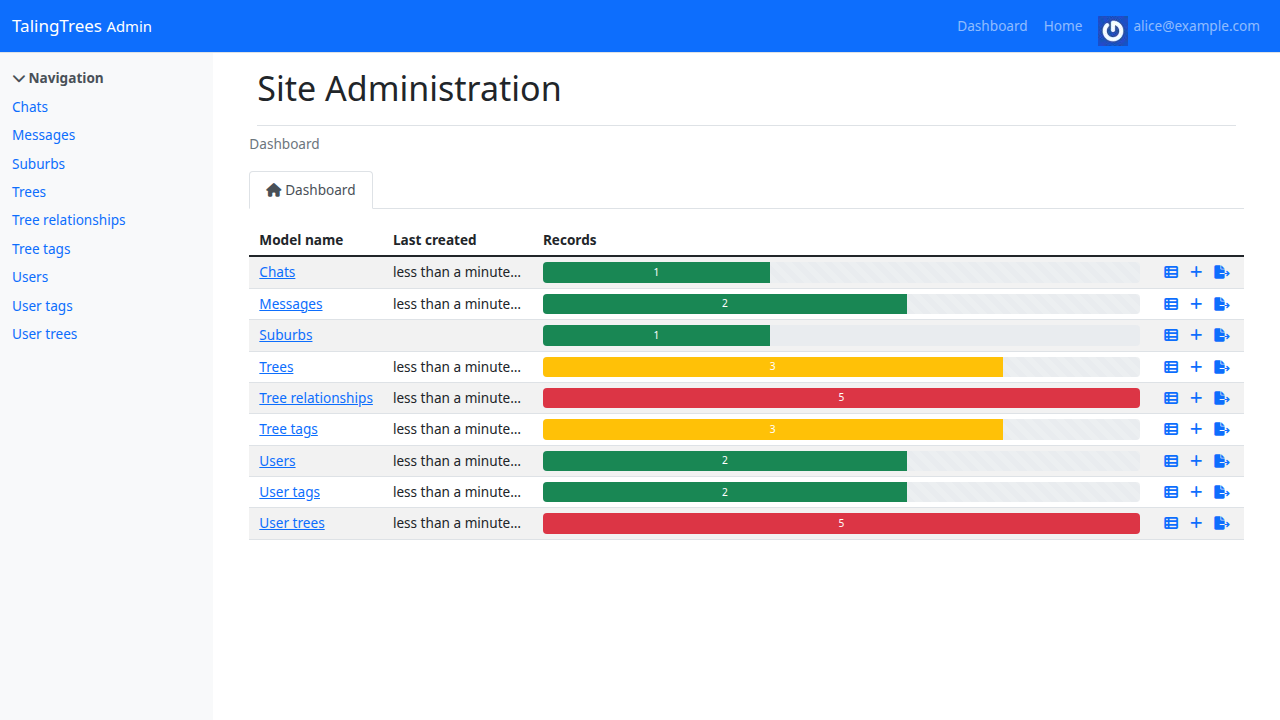
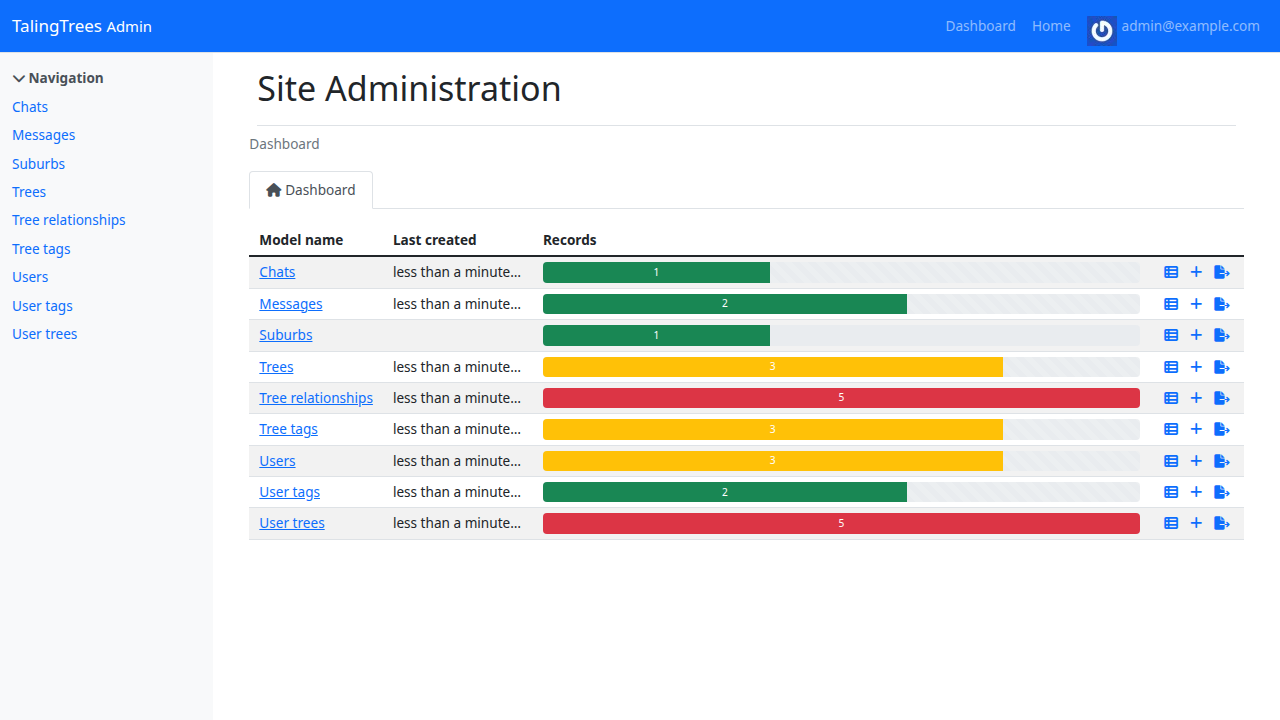
[FEATURE] Seed Blazer and capture dashboard screenshots

Changed region(s): [[0.4062, 0.6111, 0.7812, 0.6722], [0.75, 0.0, 0.9062, 0.0611]]

diff --git a/scripts/capture_homepage_screenshot.js b/scripts/capture_homepage_screenshot.js
@@ -9,6 +9,9 @@ const path = require('path');
   const waitSelector = process.env.SCREENSHOT_WAIT_SELECTOR;
   const delayMs = parseInt(process.env.SCREENSHOT_DELAY_MS || '2000', 10);
   const postScript = process.env.SCREENSHOT_POST_JS;
+  const selectUserId = process.env.SCREENSHOT_SELECT_USER_ID;
+  const targetUrl = process.env.SCREENSHOT_TARGET_URL;
+  const targetWaitSelector = process.env.SCREENSHOT_TARGET_WAIT_SELECTOR;
 
   const outputDir = path.dirname(output);
   if (!fs.existsSync(outputDir)) {
@@ -27,6 +30,28 @@ const path = require('path');
     await page.goto(url, { waitUntil: 'networkidle0', timeout: 60000 });
     if (waitSelector) {
       await page.waitForSelector(waitSelector, { timeout: 60000 }).catch(() => {});
+    }
+    if (selectUserId) {
+      await page.evaluate(async (userId) => {
+        const tokenEl = document.querySelector('meta[name="csrf-token"]');
+        if (!tokenEl) return;
+        const body = new URLSearchParams({ user_id: userId }).toString();
+        await fetch('/select_user', {
+          method: 'POST',
+          headers: {
+            'Content-Type': 'application/x-www-form-urlencoded; charset=UTF-8',
+            'X-CSRF-Token': tokenEl.content
+          },
+          credentials: 'same-origin',
+          body
+        });
+      }, selectUserId);
+    }
+    if (targetUrl) {
+      await page.goto(targetUrl, { waitUntil: 'networkidle0', timeout: 60000 });
+      if (targetWaitSelector) {
+        await page.waitForSelector(targetWaitSelector, { timeout: 60000 }).catch(() => {});
+      }
     }
     if (postScript) {
       await page.evaluate((code) => {

diff --git a/test/run_tests.rb b/test/run_tests.rb
@@ -6,7 +6,7 @@ require 'fileutils'
 require 'timeout'
 require 'socket'
 
-def capture_app_screenshot(root, filename:, seed_script: nil, path: '/', wait_selector: nil, delay_ms: 2000, post_script: nil)
+def capture_app_screenshot(root, filename:, seed_script: nil, path: '/', wait_selector: nil, delay_ms: 2000, post_script: nil, select_user_id: nil, target_path: nil, target_wait_selector: nil)
   screenshots_dir = File.join(root, 'screenshots')
   FileUtils.mkdir_p(screenshots_dir)
 
@@ -79,6 +79,13 @@ def capture_app_screenshot(root, filename:, seed_script: nil, path: '/', wait_se
     )
     screenshot_env['SCREENSHOT_WAIT_SELECTOR'] = wait_selector if wait_selector
     screenshot_env['SCREENSHOT_POST_JS'] = post_script if post_script
+    if select_user_id
+      screenshot_env['SCREENSHOT_SELECT_USER_ID'] = select_user_id
+      if target_path
+        screenshot_env['SCREENSHOT_TARGET_URL'] = "http://127.0.0.1:#{port}#{target_path}"
+        screenshot_env['SCREENSHOT_TARGET_WAIT_SELECTOR'] = target_wait_selector if target_wait_selector
+      end
+    end
     unless system(screenshot_env, 'yarn', 'screenshot:homepage', chdir: root)
       warn 'Screenshot capture command failed.'
     end
@@ -147,6 +154,11 @@ Minitest.after_run do
 
   populated_seed = <<~RUBY
     ApplicationRecord.transaction do
+      admin = User.create!(
+        name: 'Admin',
+        email: 'admin@example.com',
+        blurb: 'Analytics admin'
+      )
       user = User.create!(
         name: 'Explorer Alice',
         email: 'alice@example.com',
@@ -222,6 +234,68 @@ Minitest.after_run do
       chat = Chat.create!(user: user, tree: starwood)
       Message.create!(chat: chat, role: 'user', content: 'Hello Sentinel, how are the neighbors today?')
       Message.create!(chat: chat, role: 'assistant', content: 'Moonlit Whisper is humming with golden light, and Harborlight Cedar sends breezy greetings.')
+
+      Ahoy::Event.delete_all
+      Ahoy::Visit.delete_all
+      now = Time.current
+      5.times do |i|
+        visit = Ahoy::Visit.create!(
+          visit_token: SecureRandom.uuid,
+          visitor_token: SecureRandom.uuid,
+          started_at: now - i.days,
+          user: admin
+        )
+        Ahoy::Event.create!(
+          visit: visit,
+          name: 'Page view',
+          properties: { path: '/' },
+          time: visit.started_at + 5.minutes,
+          user: admin
+        )
+      end
+
+      if defined?(Blazer::Query)
+        visits_query = Blazer::Query.find_or_initialize_by(name: 'Ahoy visits per day')
+        visits_query.creator = admin
+        visits_query.data_source = 'main'
+        visits_query.description = 'Count of Ahoy visits grouped by day (last 30 days).'
+        visits_query.statement = <<~SQL
+          SELECT date(started_at) AS day,
+                 COUNT(*) AS visits
+          FROM ahoy_visits
+          WHERE started_at IS NOT NULL
+          GROUP BY day
+          ORDER BY day DESC
+          LIMIT 30
+        SQL
+        visits_query.save!
+
+        events_query = Blazer::Query.find_or_initialize_by(name: 'Ahoy events by name')
+        events_query.creator = admin
+        events_query.data_source = 'main'
+        events_query.description = 'Event volume grouped by event name (top 20).'
+        events_query.statement = <<~SQL
+          SELECT name,
+                 COUNT(*) AS events
+          FROM ahoy_events
+          GROUP BY name
+          ORDER BY events DESC
+          LIMIT 20
+        SQL
+        events_query.save!
+
+        dashboard = Blazer::Dashboard.find_or_initialize_by(name: 'Starter analytics')
+        dashboard.creator = admin
+        dashboard.save!
+
+        Blazer::DashboardQuery.find_or_create_by!(dashboard: dashboard, query: visits_query) do |dq|
+          dq.position = 0
+        end
+
+        Blazer::DashboardQuery.find_or_create_by!(dashboard: dashboard, query: events_query) do |dq|
+          dq.position = 1
+        end
+      end
     end
   RUBY
 
@@ -245,7 +319,8 @@ Minitest.after_run do
     seed_script: populated_seed,
     path: '/admin',
     wait_selector: 'body.rails_admin',
-    delay_ms: 3000
+    delay_ms: 3000,
+    select_user_id: '1'
   )
   maybe_generate_screenshot_diff(root, 'screenshots/admin-dashboard.png')
 
@@ -255,7 +330,58 @@ Minitest.after_run do
     seed_script: populated_seed,
     path: '/admin/tree',
     wait_selector: 'body.rails_admin',
-    delay_ms: 3000
+    delay_ms: 3000,
+    select_user_id: '1'
   )
   maybe_generate_screenshot_diff(root, 'screenshots/admin-trees.png')
+
+  capture_app_screenshot(
+    root,
+    filename: 'analytics-visits.png',
+    seed_script: populated_seed,
+    path: '/',
+    wait_selector: 'body',
+    select_user_id: '1',
+    target_path: '/blazer/queries/1-ahoy-visits-per-day',
+    target_wait_selector: '#bind',
+    delay_ms: 4000,
+    post_script: <<~JS
+      (async () => {
+        const form = document.querySelector('#bind');
+        if (form) {
+          const button = form.querySelector('input[type="submit"]');
+          if (button) {
+            button.click();
+            await new Promise(resolve => setTimeout(resolve, 2500));
+          }
+        }
+      })();
+    JS
+  )
+  maybe_generate_screenshot_diff(root, 'screenshots/analytics-visits.png')
+
+  capture_app_screenshot(
+    root,
+    filename: 'analytics-events.png',
+    seed_script: populated_seed,
+    path: '/',
+    wait_selector: 'body',
+    select_user_id: '1',
+    target_path: '/blazer/queries/2-ahoy-events-by-name',
+    target_wait_selector: '#bind',
+    delay_ms: 4000,
+    post_script: <<~JS
+      (async () => {
+        const form = document.querySelector('#bind');
+        if (form) {
+          const button = form.querySelector('input[type="submit"]');
+          if (button) {
+            button.click();
+            await new Promise(resolve => setTimeout(resolve, 2500));
+          }
+        }
+      })();
+    JS
+  )
+  maybe_generate_screenshot_diff(root, 'screenshots/analytics-events.png')
 end

diff --git a/db/seeds.rb b/db/seeds.rb
@@ -6,7 +6,58 @@ Chat.destroy_all
 Tree.destroy_all
 User.destroy_all
 
+begin
+  require 'blazer'
+rescue LoadError
+  # ignore if Blazer is not available in this environment
+end
+
 User.create!(name: 'Admin', email: 'admin@example.com', blurb: 'Initial admin user')
 User.create!(name: 'Alice', email: 'alice@example.com', blurb: 'Regular user')
 User.create!(name: 'Bob', email: 'bob@example.com', blurb: 'Regular user')
 User.create!(name: 'Charlie', email: 'charlie@example.com', blurb: 'Regular user')
+
+if defined?(Blazer::Query)
+  admin = User.find_by(name: 'Admin')
+
+  visits_query = Blazer::Query.find_or_initialize_by(name: 'Ahoy visits per day')
+  visits_query.creator = admin
+  visits_query.data_source = 'main'
+  visits_query.description = 'Count of Ahoy visits grouped by day (last 30 days).'
+  visits_query.statement = <<~SQL
+    SELECT date(started_at) AS day,
+           COUNT(*) AS visits
+    FROM ahoy_visits
+    WHERE started_at IS NOT NULL
+    GROUP BY day
+    ORDER BY day DESC
+    LIMIT 30
+  SQL
+  visits_query.save!
+
+  events_query = Blazer::Query.find_or_initialize_by(name: 'Ahoy events by name')
+  events_query.creator = admin
+  events_query.data_source = 'main'
+  events_query.description = 'Event volume grouped by event name (top 20).'
+  events_query.statement = <<~SQL
+    SELECT name,
+           COUNT(*) AS events
+    FROM ahoy_events
+    GROUP BY name
+    ORDER BY events DESC
+    LIMIT 20
+  SQL
+  events_query.save!
+
+  dashboard = Blazer::Dashboard.find_or_initialize_by(name: 'Starter analytics')
+  dashboard.creator = admin
+  dashboard.save!
+
+  Blazer::DashboardQuery.find_or_create_by!(dashboard: dashboard, query: visits_query) do |dq|
+    dq.position = 0
+  end
+
+  Blazer::DashboardQuery.find_or_create_by!(dashboard: dashboard, query: events_query) do |dq|
+    dq.position = 1
+  end
+end

diff --git a/TODO.md b/TODO.md
@@ -1,14 +1,13 @@
 # Project TODOs
 
 ## Incomplete
-[x] add Ahoy for analytics tracking
-[x] add Blazer dashboards to graph Ahoy data
+[ ] investigate yarn warnings about bare-* engine requirements when installing puppeteer
+[ ] add Blazer dashboards to graph Ahoy data
 [ ] when naming trees we should use lat/long data to lookup nearby landmarks. also save those details to the db for later use
 [ ] when naming trees we should use lat/long data to lookup nearby streets. also save those details to the db for later use
 [ ] create 'landmark' table and import Victorian Heritage Register from data/heritage/HERITAGE_REGISTER.shp
 [ ] show landmarks on map
 [ ] add landmarks to as additional data to the tree naming prompt if within 50m of the tree
-[ ] investigate yarn warnings about bare-* engine requirements when installing puppeteer
 [ ] Public Transport Victoria (PTV) provides open data for all train stations, tram stops, and bus stops. The static GTFS (General Transit Feed Specification) dataset
 [ ] wikipedia lookup table, scan and summarize
 [ ] import osm overpass data
@@ -20,6 +19,7 @@
 [ ] custom tree images - trees have images that start as the default logo, but users with the right tags could take a selfie of the tree and update it's image
 
 ## Completed
+[x] add Ahoy for analytics tracking
 [x] when naming trees we should use lat/long data to lookup suburb and relative location in it. also save those details to the db for later use
 [x] add screenshots to specs for visual validation
 [x] add tailwind and style tree list page

diff --git a/readme.md b/readme.md
@@ -84,7 +84,7 @@ Only follow these steps if you need to run the app outside Docker.
    bundle exec bundler-audit check
    bundle exec brakeman -q
    ```
-   The test runner also provisions a headless browser to capture `screenshots/home-empty.png` (empty state), `screenshots/home-demo.png` (sample data with relations), `screenshots/home-demo-dark.png` (same sample data in dark mode), plus RailsAdmin views `screenshots/admin-dashboard.png` and `screenshots/admin-trees.png` for visual regression reference.
+   The test runner also provisions a headless browser to capture `screenshots/home-empty.png` (empty state), `screenshots/home-demo.png` (sample data with relations), `screenshots/home-demo-dark.png` (same sample data in dark mode), RailsAdmin views (`screenshots/admin-dashboard.png`, `screenshots/admin-trees.png`), and Blazer analytics (`screenshots/analytics-visits.png`, `screenshots/analytics-events.png`) for visual regression reference.
 
 6. Build css and frontend assets:
    ```bash

diff --git a/AGENTS.md b/AGENTS.md
@@ -23,6 +23,12 @@ Several Rake tasks exist to manage tree data:
 
 These tasks clear and repopulate the tree records, so run them with care.
 
+## Workflow Rules
+- You may stage changes to share diffs, but never commit or push without explicit user approval.
+- Do **not** mark TODO items as complete unless the user confirms the work is accepted.
+- Follow this loop for every task: implement changes → stage as needed for review → present the work (tests, docs, screenshots) → wait for user approval → only then commit/push.
+- When changes affect the Docker image or runtime environment, rebuild the image and restart the container before presenting results so reviewers see current behavior.
+
 ## Development
 - Groom and keep `readme.md`, `AGENTS.md`, and any other documentation up to date with your changes.
 - Follow the workflow: implement changes, present them for user review, and only commit/push after approval.
